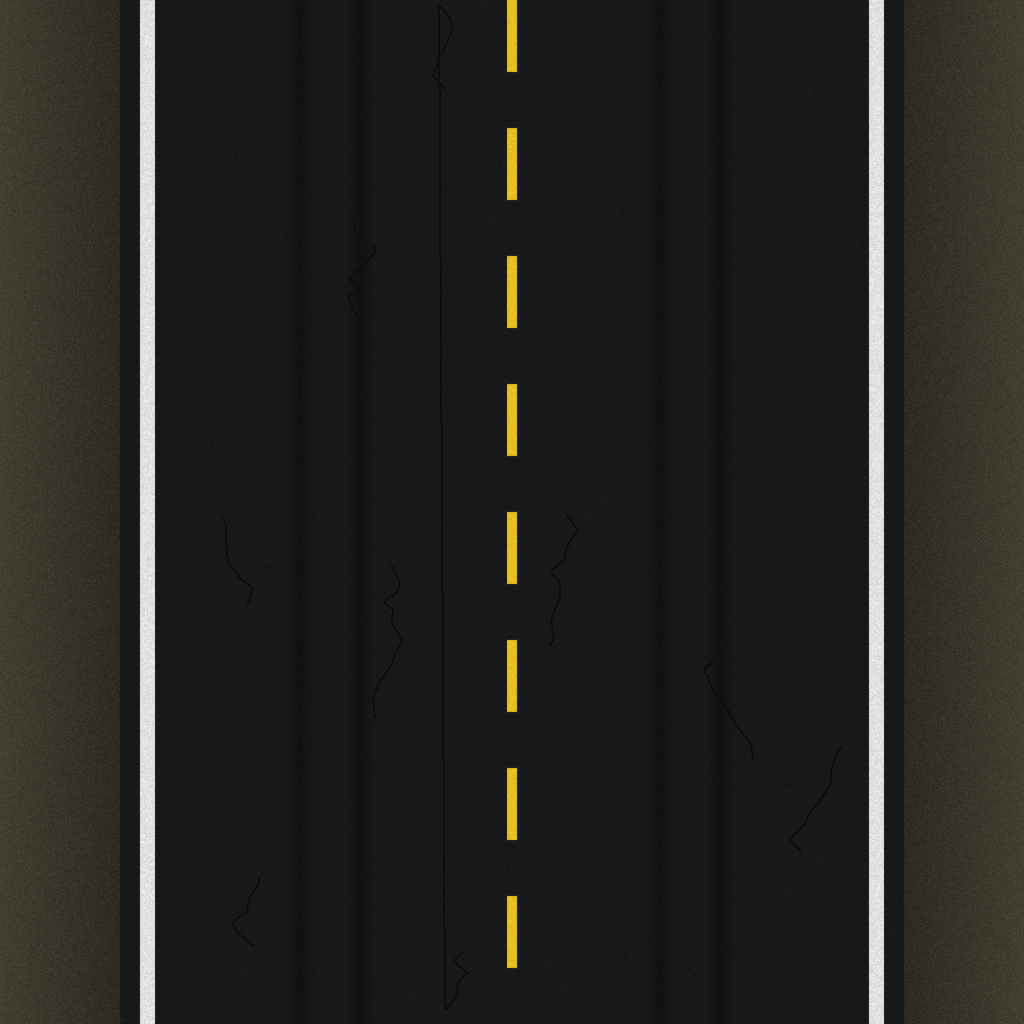
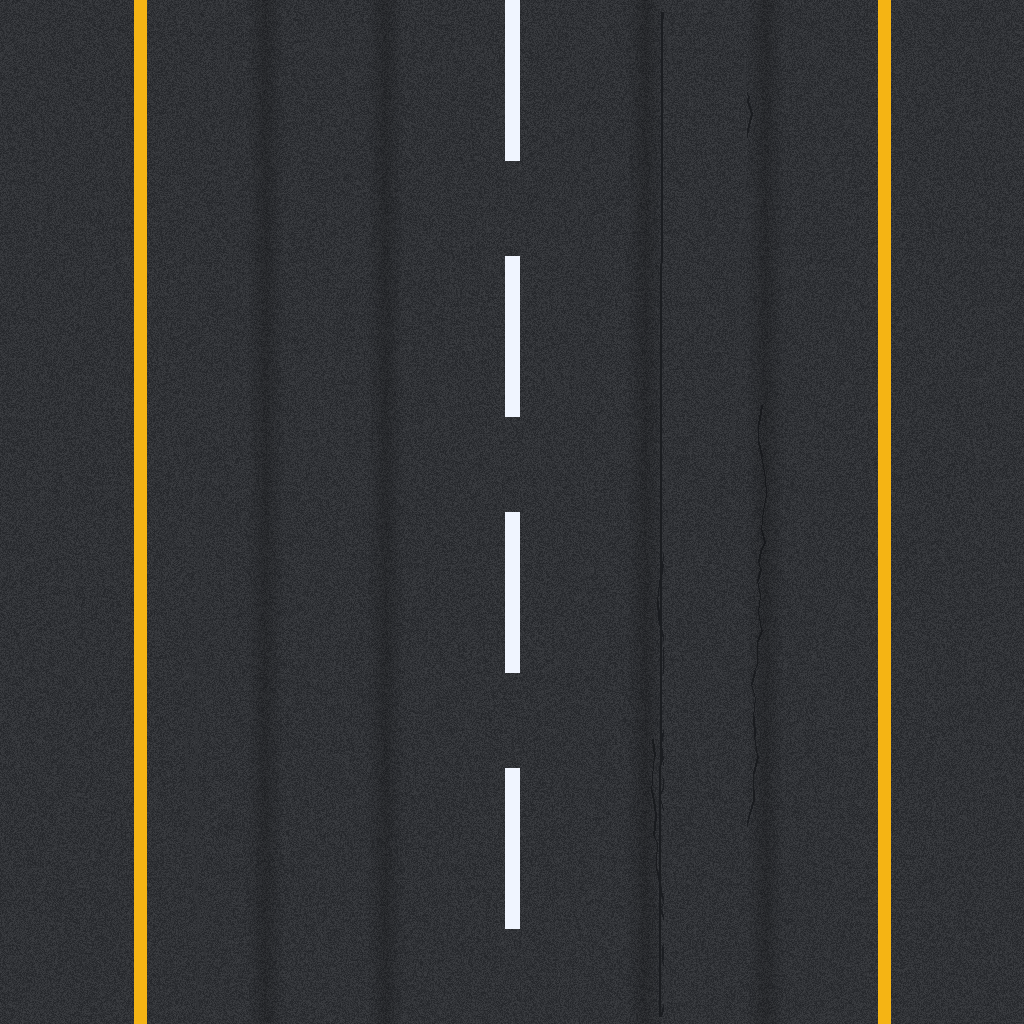
refactor: optimize car physics, steering, and headlight performance while improving game reset state and camera positioning

diff --git a/src/entities/Car.ts b/src/entities/Car.ts
@@ -491,8 +491,8 @@ export class Car {
     this.scene.add(this.exhaustParticles);
   }
 
-  public cycleHeadlights() {
-    this.headlightMode = (this.headlightMode + 1) % 3;
+  public setHeadlightMode(mode: 0 | 1 | 2) {
+    this.headlightMode = mode;
     if (this.headlightMode === 0) {
       // Off
       this.leftHeadlight.intensity = 0;
@@ -501,25 +501,29 @@ export class Car {
       this.rightLightCone.visible = false;
     } else if (this.headlightMode === 1) {
       // Low Beam
-      this.leftHeadlight.intensity = 3500;
-      this.rightHeadlight.intensity = 3500;
-      this.leftHeadlight.distance = 90;
-      this.rightHeadlight.distance = 90;
+      this.leftHeadlight.intensity = 4500;
+      this.rightHeadlight.intensity = 4500;
+      this.leftHeadlight.distance = 120;
+      this.rightHeadlight.distance = 120;
       this.leftLightCone.visible = true;
       this.rightLightCone.visible = true;
       this.leftLightCone.scale.set(0.7, 0.7, 0.6);
       this.rightLightCone.scale.set(0.7, 0.7, 0.6);
     } else {
       // High Beam
-      this.leftHeadlight.intensity = 9500;
-      this.rightHeadlight.intensity = 9500;
-      this.leftHeadlight.distance = 240;
-      this.rightHeadlight.distance = 240;
+      this.leftHeadlight.intensity = 12000;
+      this.rightHeadlight.intensity = 12000;
+      this.leftHeadlight.distance = 280;
+      this.rightHeadlight.distance = 280;
       this.leftLightCone.visible = true;
       this.rightLightCone.visible = true;
       this.leftLightCone.scale.set(1.0, 1.0, 1.0);
       this.rightLightCone.scale.set(1.0, 1.0, 1.0);
     }
+  }
+
+  public cycleHeadlights() {
+    this.setHeadlightMode(((this.headlightMode + 1) % 3) as 0 | 1 | 2);
   }
 
   public getPosition(): THREE.Vector3 {
@@ -543,15 +547,14 @@ export class Car {
     return this.chassisBody.velocity.length() * 3.6; // km/h
   }
 
-  public reset(startZ: number = 5) {
+  public reset(startZ: number = 20) {
     this.chassisBody.position.set(0, 0.85, startZ);
     this.chassisBody.velocity.set(0, 0, 0);
     this.chassisBody.angularVelocity.set(0, 0, 0);
     this.chassisBody.quaternion.set(0, 0, 0, 1);
     this.health = 100;
     this.fuel = 100;
-    this.headlightMode = 2;
-    this.cycleHeadlights(); // refresh intensities
+    this.setHeadlightMode(2); // Set to High Beam default
   }
 
   public brake() {
@@ -577,21 +580,20 @@ export class Car {
     const brake = this.keys[' '];
 
     // Throttle & Reverse Logic
-    // In Cannon RaycastVehicle with indexForwardAxis: 2, positive force pushes along +Z (Forward!)
+    // In Cannon RaycastVehicle with indexForwardAxis: 2, negative force pushes along +Z (Forward!)
     let engineForce = 0;
     if (up) {
       this.gear = 'D';
       this.isReversing = false;
       this.isBraking = false;
-      // Progressive acceleration curve
-      engineForce = this.baseMaxForce;
+      engineForce = -this.baseMaxForce;
     } else if (down) {
       if (speed < 5) {
         // Reverse
         this.gear = 'R';
         this.isReversing = true;
         this.isBraking = false;
-        engineForce = -this.baseMaxForce * 0.55;
+        engineForce = this.baseMaxForce * 0.55;
       } else {
         // Foot brake
         this.gear = 'D';
@@ -618,10 +620,10 @@ export class Car {
     }
 
     // Dynamic steering: tighter at low speeds, stable at high speeds
-    const targetMaxSteer = THREE.MathUtils.lerp(0.42, 0.22, Math.min(speed / 100, 1));
+    const targetMaxSteer = THREE.MathUtils.lerp(0.42, 0.20, Math.min(speed / 100, 1));
     let targetSteer = 0;
-    if (left) targetSteer += targetMaxSteer;
-    if (right) targetSteer -= targetMaxSteer;
+    if (left) targetSteer -= targetMaxSteer; // negative X is left
+    if (right) targetSteer += targetMaxSteer; // positive X is right
 
     // Smooth steering input
     this.currentSteerAngle = THREE.MathUtils.lerp(this.currentSteerAngle, targetSteer, dt * 14);
@@ -633,7 +635,7 @@ export class Car {
       this.steeringWheel.rotation.z = -this.currentSteerAngle * 3.5;
     }
 
-    // Braking & Handbrake
+    // Braking & Handbrake & Natural Rolling Resistance
     if (brake) {
       this.vehicle.setBrake(this.brakeForce, 0);
       this.vehicle.setBrake(this.brakeForce, 1);
@@ -641,10 +643,16 @@ export class Car {
       this.vehicle.setBrake(this.handbrakeForce, 3);
       this.isBraking = true;
     } else if (this.isBraking) {
-      this.vehicle.setBrake(this.brakeForce, 0);
-      this.vehicle.setBrake(this.brakeForce, 1);
-      this.vehicle.setBrake(this.brakeForce, 2);
-      this.vehicle.setBrake(this.brakeForce, 3);
+      this.vehicle.setBrake(this.brakeForce * 0.8, 0);
+      this.vehicle.setBrake(this.brakeForce * 0.8, 1);
+      this.vehicle.setBrake(this.brakeForce * 0.8, 2);
+      this.vehicle.setBrake(this.brakeForce * 0.8, 3);
+    } else if (!up && !down) {
+      // Rolling resistance
+      this.vehicle.setBrake(30, 0);
+      this.vehicle.setBrake(30, 1);
+      this.vehicle.setBrake(40, 2);
+      this.vehicle.setBrake(40, 3);
     } else {
       this.vehicle.setBrake(0, 0);
       this.vehicle.setBrake(0, 1);

diff --git a/src/core/Game.ts b/src/core/Game.ts
@@ -187,10 +187,19 @@ export class Game {
     this.threatsAvoided = 0;
     this.threatsHit = 0;
 
-    this.car.reset();
-    this.worldManager.reset();
+    this.car.reset(20);
+    this.worldManager.reset(20);
+    this.worldManager.update(this.car.getPosition(), 0.016);
     this.enemyManager.reset();
     this.hud.setVisible(true);
+
+    // Immediately snap camera to vehicle
+    const carPos = this.car.getPosition();
+    const carQuat = this.car.getQuaternion();
+    const chaseOffset = new THREE.Vector3(0, 2.3, -6.4).applyQuaternion(carQuat);
+    this.camera.position.copy(carPos).add(chaseOffset);
+    const lookOffset = new THREE.Vector3(0, 1.2, 14.0).applyQuaternion(carQuat);
+    this.camera.lookAt(carPos.clone().add(lookOffset));
 
     this.lastTime = performance.now();
     this.loop(this.lastTime);

diff --git a/src/world/World.ts b/src/world/World.ts
@@ -61,6 +61,7 @@ export class World {
 
     // Road & Environment System
     this.roadSystem = new RoadSystem(this.scene, this.physicsWorld, this.groundMaterial);
+    this.roadSystem.update(20);
 
     // Setup Rain Particles
     this.setupRain();
@@ -147,8 +148,8 @@ export class World {
     }, 70);
   }
 
-  public reset() {
-    this.roadSystem.reset();
+  public reset(playerZ: number = 20) {
+    this.roadSystem.reset(playerZ);
     this.lightningFlashTimer = 0;
     this.isFlashing = false;
     this.lightningLight.intensity = 0;

diff --git a/src/world/RoadSystem.ts b/src/world/RoadSystem.ts
@@ -663,11 +663,12 @@ export class RoadSystem {
     this.physicsWorld.removeBody(chunk.physicsBody);
   }
 
-  public reset() {
+  public reset(playerZ: number = 20) {
     for (const chunk of this.chunks.values()) {
       this.destroyChunk(chunk);
     }
     this.chunks.clear();
     this.activeLights = [];
+    this.update(playerZ);
   }
 }
